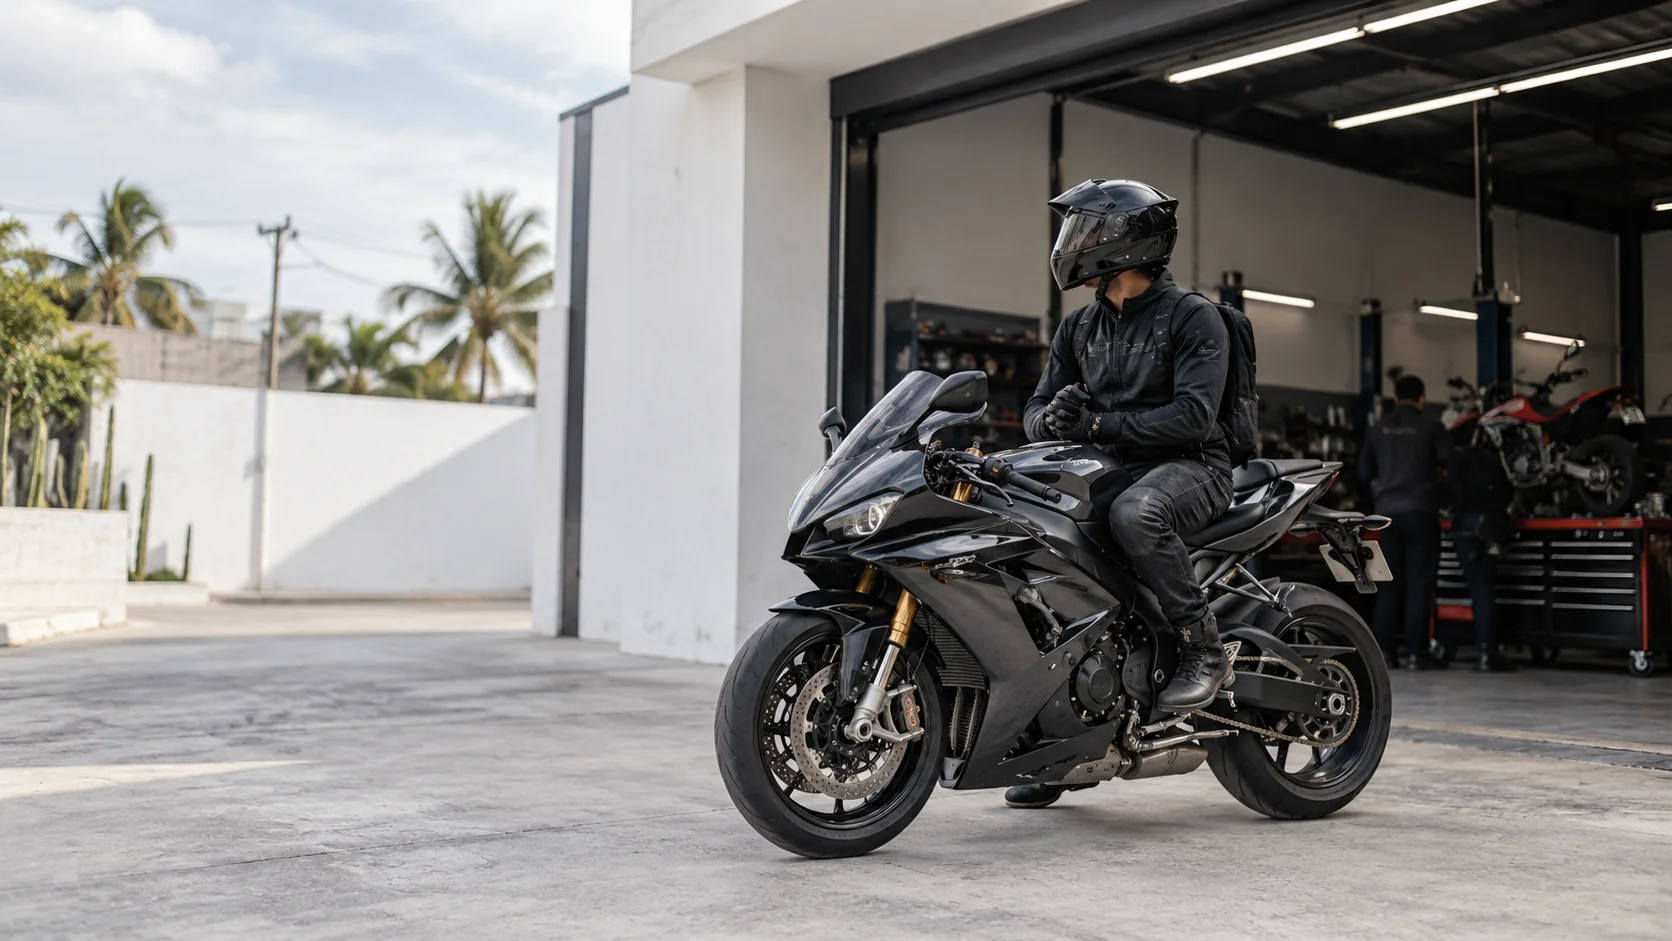
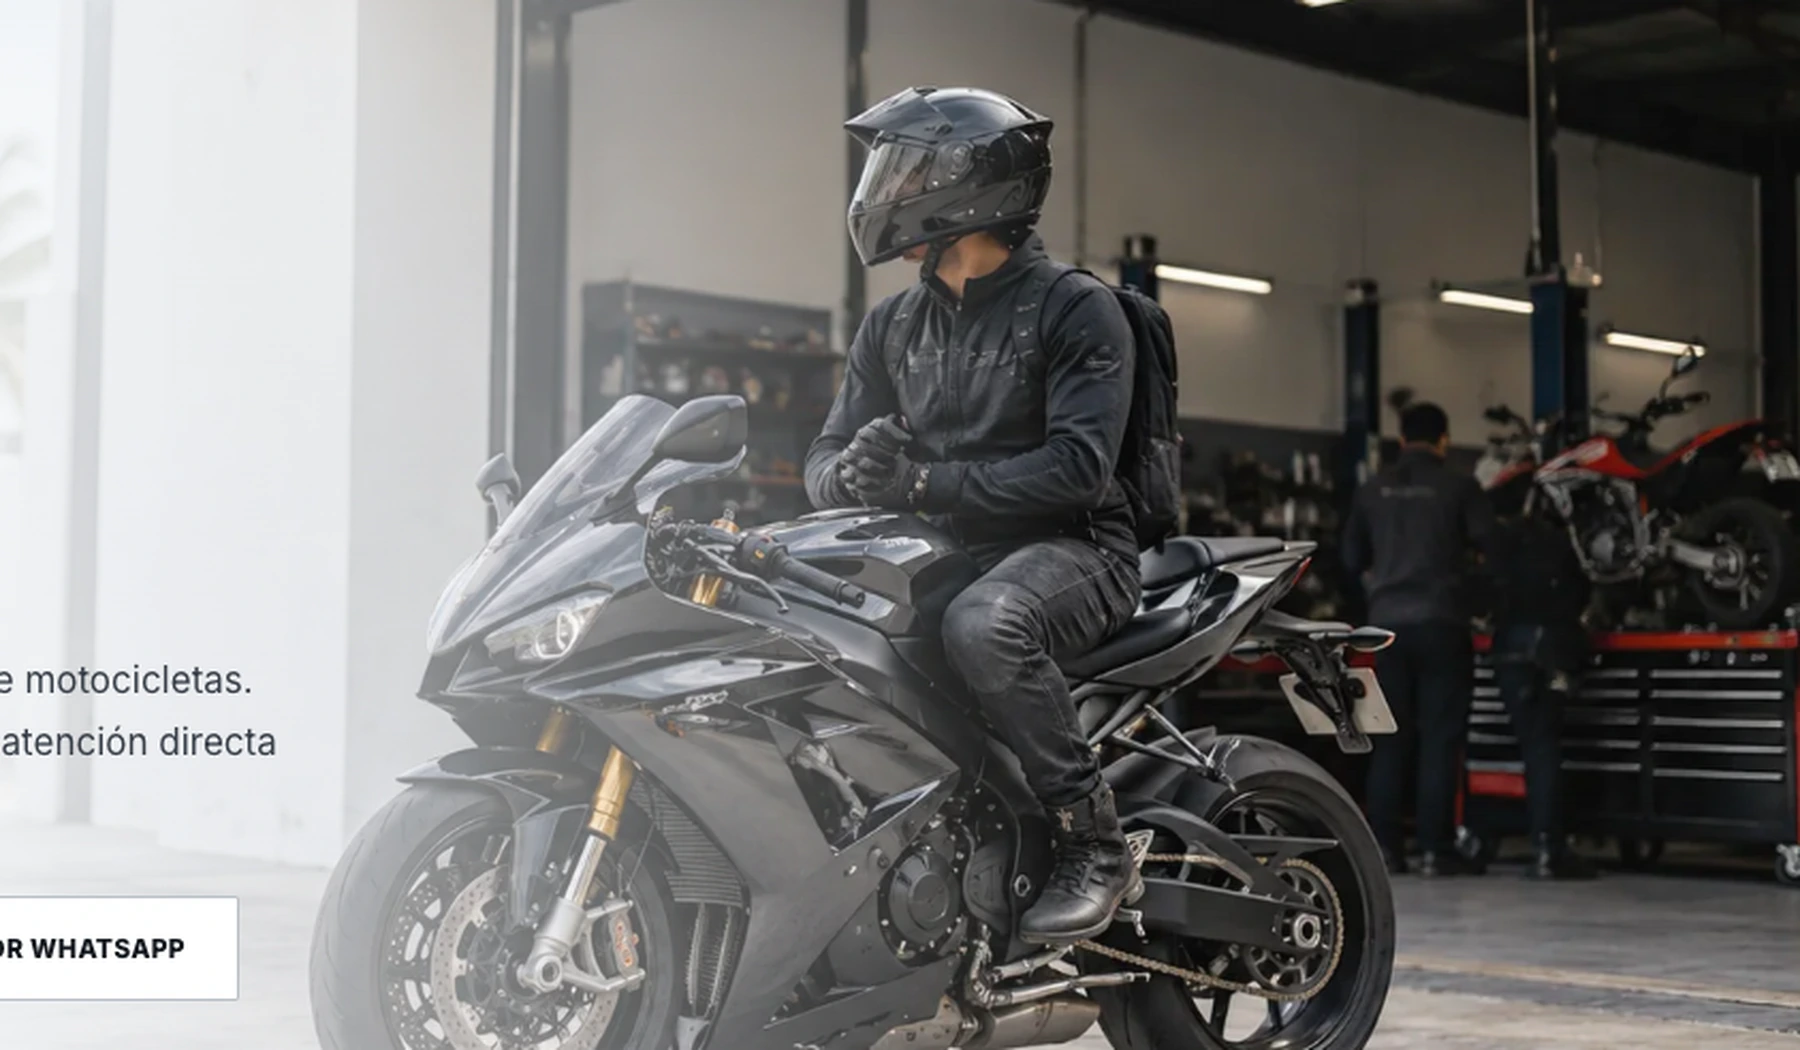
Add files via upload

diff --git a/index.html b/index.html
@@ -18,10 +18,10 @@
 .booking-section{padding:100px 0;background:#fff}.booking-heading{display:flex;align-items:end;justify-content:space-between;gap:40px;margin-bottom:28px}.booking-heading h2{font-size:clamp(43px,5vw,67px);margin:8px 0 0}.booking-heading .intro-copy{max-width:460px;color:#67717a;font-size:15px;line-height:1.75;margin:0}.booking-shell{border:1px solid #dfe3e6;background:#fff;box-shadow:0 14px 35px #00000008}.booking-tabs{display:grid;grid-template-columns:repeat(3,1fr);border-bottom:1px solid var(--line);background:#f6f7f8}.booking-tab{min-height:75px;padding:18px 12px;display:flex;align-items:center;justify-content:center;gap:11px;border:0;border-right:1px solid var(--line);border-bottom:3px solid transparent;background:transparent;color:#59616b;font-weight:800;font-size:13px}.booking-tab:last-child{border-right:0}.booking-tab:hover{background:#ecedef}.booking-tab.is-selected{background:#fff;color:#121519;border-bottom-color:var(--red)}.tab-num{font:800 13px 'Barlow Condensed',sans-serif;color:var(--red)}.booking-panel{padding:46px clamp(25px,5vw,63px) 50px}.booking-panel[hidden]{display:none}.panel-intro{margin:0 0 30px}.panel-intro .eyebrow{display:block}.panel-intro h3{font:800 clamp(34px,3.5vw,48px) 'Barlow Condensed',sans-serif;text-transform:uppercase;margin:7px 0 8px}.panel-intro>p:last-child{color:#68747d;font-size:14px;line-height:1.8;margin:0;max-width:740px}.booking-form{max-width:940px}.form-grid{display:grid;grid-template-columns:repeat(2,minmax(0,1fr));gap:22px 24px}.field{display:flex;flex-direction:column;gap:9px;font-size:12px;font-weight:700;color:#333a42}.field-full{grid-column:1/-1}.field>span:not(.optional){color:var(--red)}.optional{color:#8b939b;font-weight:400;font-size:11px}.field input,.field select,.field textarea{width:100%;min-height:51px;padding:13px 15px;border:1px solid #d5dbe0;background:white;border-radius:2px;color:#232b32;outline:none;box-shadow:none;appearance:auto}.field textarea{min-height:110px;resize:vertical}.field input::placeholder,.field textarea::placeholder{color:#959ca3}.field input:focus,.field select:focus,.field textarea:focus{border-color:#cc4547;outline:2px solid #ffd1d1;outline-offset:0}.check-line{display:flex;align-items:flex-start;gap:10px;margin-top:22px;font-size:12px;color:#57616a;line-height:1.75}.check-line input{width:17px;height:17px;margin-top:2px;accent-color:var(--red);flex:none}.check-line strong{color:#20262c}.form-submit{margin-top:25px;border:0;background:var(--red);color:white;padding:16px 27px;font-size:12px;font-weight:800;display:inline-flex;align-items:center;gap:13px;border-radius:2px}.form-submit:hover{background:var(--red-dark)}.form-note{font-size:11px;color:#89929b;max-width:650px;margin:13px 0 0}.booking-bottom{padding:17px 0;display:flex;justify-content:space-between;gap:15px;color:#71808a;font-size:10px;letter-spacing:.09em;font-weight:700;text-transform:uppercase}.loyalty-teaser{margin:25px 0 0;padding:20px 24px;border-left:3px solid var(--red);background:#f5f6f7;display:flex;gap:16px;align-items:flex-start}.loyalty-mark{color:var(--red);font-size:30px}.loyalty-teaser strong{font-size:12px}.loyalty-teaser p{font-size:12px;color:#616a74;line-height:1.8;margin:4px 0 0}
 /* locations/contact/reviews */
 .location{background:#f5f6f7;padding:100px 0}.location-layout{display:grid;grid-template-columns:1fr 1fr;gap:75px;align-items:center}.location h2{font-size:clamp(46px,5vw,69px)}.contact-facts{margin:30px 0;display:grid;gap:17px}.contact-facts dt{font-size:11px;font-weight:800;letter-spacing:.1em;text-transform:uppercase;color:#979fa7}.contact-facts dd{margin:3px 0 0;font-size:14px;font-weight:650}.contact-facts a:hover{color:var(--red)}.location-art{position:relative;background:#dce0e3;min-height:450px;overflow:hidden}.location-art img{position:absolute;inset:0;width:100%;height:100%;object-fit:cover;object-position:66% center}.location-card{position:absolute;left:24px;right:24px;bottom:22px;padding:23px;background:#fff;box-shadow:0 10px 35px #0002;display:flex;align-items:center;justify-content:space-between;gap:18px}.location-card strong{font:800 21px 'Barlow Condensed',sans-serif;text-transform:uppercase}.location-card small{display:block;color:#747d87;font-size:11px;line-height:1.6}.location-card a{white-space:nowrap;color:var(--red);font-size:12px;font-weight:800}.contacts-buttons{display:flex;flex-wrap:wrap;gap:10px}
-.reviews{background:#fff;padding:92px 0 102px}.reviews-top{display:flex;align-items:end;justify-content:space-between;gap:30px}.reviews-top p{max-width:580px;color:#67717a}.review-card{background:#f3f5f6;padding:34px 38px;margin-top:34px;display:grid;grid-template-columns:1fr auto;align-items:center;gap:25px}.review-card p{font-size:16px;line-height:1.75;color:#4b545e;margin:8px 0 0}.review-mark{font-family:'Barlow Condensed',sans-serif;font-size:54px;font-weight:800;color:#171c22;letter-spacing:-.03em}.review-source{display:inline-flex;gap:8px;align-items:center;font-size:11px;font-weight:800;color:#777f88;letter-spacing:.1em;text-transform:uppercase}.review-source span{font:800 18px Inter,sans-serif;color:#4285f4}.review-button{margin-top:27px}.reviews-note{font-size:11px;color:#87919b;margin-top:16px}.editor-note{font-size:10px;color:#98a1a9;text-align:center;padding:9px 30px 21px;line-height:1.6}
+.reviews{background:#fff;padding:92px 0 102px}.reviews-top{display:flex;align-items:end;justify-content:space-between;gap:30px}.reviews-top p{max-width:580px;color:#67717a}.review-grid{display:grid;grid-template-columns:repeat(3,minmax(0,1fr));gap:20px;margin-top:34px}.review-item{background:#f3f5f6;border:1px solid #e3e6e9;padding:28px 26px;display:flex;flex-direction:column;gap:14px;min-height:220px}.review-meta{display:flex;justify-content:space-between;align-items:center;gap:12px}.review-name{font:800 18px 'Barlow Condensed',sans-serif;letter-spacing:.02em;text-transform:uppercase;color:#171c22}.review-stars{color:#f5a623;font-size:15px;letter-spacing:.08em}.review-item p{font-size:14px;line-height:1.8;color:#4b545e;margin:0}.review-button{margin-top:27px}.reviews-note{font-size:11px;color:#87919b;margin-top:16px}.editor-note{font-size:10px;color:#98a1a9;text-align:center;padding:9px 30px 21px;line-height:1.6}
 .footer{background:#171a1f;color:#d2d6da;padding:47px 0 25px}.footer-grid{display:grid;grid-template-columns:1.2fr 1fr 1fr;gap:50px;padding-bottom:39px}.footer h3{color:white;font:800 24px 'Barlow Condensed',sans-serif;text-transform:uppercase;letter-spacing:.02em}.footer p,.footer a{font-size:12px;line-height:1.85;color:#afb6bd}.footer a:hover{color:#fff}.footer-links{display:grid;gap:7px}.footer-bottom{display:flex;justify-content:space-between;gap:20px;border-top:1px solid #373d43;padding-top:22px;color:#98a0a7;font-size:10px}.footer-brand{font:800 33px 'Barlow Condensed',sans-serif;color:#fff}.footer-brand span{color:var(--red)}.footer-note{margin-top:10px}
 .floating-wa{position:fixed;right:22px;bottom:20px;z-index:45;background:#1ca767;color:white;width:50px;height:50px;display:grid;place-items:center;border-radius:50%;box-shadow:0 5px 20px #0003}.floating-wa svg{width:25px;height:25px}
-@media(max-width:1020px){.nav-links{gap:14px}.hero-image{background-position:62% center}.feature-layout,.location-layout{gap:33px}.container{padding:0 25px}}
+@media(max-width:1020px){.review-grid{grid-template-columns:1fr;} .nav-links{gap:14px}.hero-image{background-position:62% center}.feature-layout,.location-layout{gap:33px}.container{padding:0 25px}}
 @media(max-width:760px){.container{padding:0 20px}.info-bar-inner{padding:8px 20px}.info-bar-inner span:last-child{display:none}.site-header .nav-wrap{height:70px}.brand-mark{width:43px;height:43px}.brand-word strong{font-size:22px}.nav-links{display:none}.nav-btn{margin-left:auto;font-size:10px;padding:12px 13px}.menu-toggle{display:flex;align-items:center;justify-content:center;border:0;background:transparent;color:#20262c;width:38px;height:42px;padding:0}.menu-toggle span{font-size:24px;line-height:1}.mobile-menu:not([hidden]){display:flex;flex-direction:column;position:absolute;top:70px;left:0;right:0;background:white;box-shadow:0 15px 26px #0002;padding:10px 20px 20px;gap:0}.mobile-menu a{padding:12px 0;border-bottom:1px solid var(--line);font-weight:700;font-size:13px}.hero{min-height:660px;align-items:end}.hero-image{background-position:66% 5%;background-size:auto 68%;background-color:#eef0f0}.hero-image:after{background:linear-gradient(0deg,#f3f5f6 0%,#f3f5f6 23%,#f3f5f6e8 41%,#f3f5f600 77%)}.hero-body{padding-top:320px;padding-bottom:35px}.hero h1{font-size:clamp(53px,12vw,78px);margin:13px 0 16px}.hero p.intro{font-size:14px;max-width:450px;margin:0 0 22px}.hero-trust{font-size:10px;flex-wrap:wrap;gap:12px;margin-top:19px}.hero-trust span+span{padding-left:12px}.section{padding:70px 0}h2{font-size:clamp(43px,11vw,59px)}.brands-list{justify-content:center;gap:15px 25px}.maker{font-size:24px}.service-grid{grid-template-columns:repeat(2,minmax(0,1fr));gap:12px}.service-card{min-height:224px;padding:21px}.feature-band{padding:62px 0}.feature-layout,.location-layout{grid-template-columns:1fr;gap:34px}.feature-image{aspect-ratio:1.35}.booking-section{padding:70px 0}.booking-heading{display:block}.booking-heading .intro-copy{margin:15px 0 0}.booking-tabs{grid-template-columns:repeat(3,minmax(0,1fr))}.booking-tab{flex-direction:column;gap:3px;font-size:10px;padding:12px 5px;min-height:67px;line-height:1.2;text-align:center}.booking-panel{padding:27px 18px 33px}.form-grid{grid-template-columns:1fr;gap:17px}.field-full{grid-column:auto}.field input,.field select,.field textarea{font-size:16px}.form-submit{width:100%;justify-content:center}.location{padding:65px 0}.location-art{min-height:330px}.reviews{padding:68px 0}.reviews-top{display:block}.review-card{grid-template-columns:1fr;padding:24px;gap:10px}.review-mark{font-size:38px}.footer-grid{grid-template-columns:1fr 1fr;gap:25px}.footer-grid>div:first-child{grid-column:1/-1}.footer-bottom{flex-direction:column;gap:5px}.floating-wa{right:12px;bottom:13px;width:45px;height:45px}}
 @media(max-width:460px){.info-bar-inner{font-size:10px}.brand-word strong{font-size:19px}.brand-word small{font-size:8px}.brand-mark{width:40px;height:40px}.nav-btn{padding:10px 9px;font-size:9px}.hero{min-height:675px}.hero-image{background-size:auto 65%;background-position:61% 0}.hero-body{padding-top:305px}.hero h1{font-size:60px}.hero .btn{width:100%}.hero-actions{gap:9px}.service-grid{grid-template-columns:1fr}.service-card{min-height:188px;padding:21px}.service-card .service-index{font-size:32px;margin-bottom:12px}.booking-heading h2{font-size:48px}.location-card{left:14px;right:14px;bottom:13px;padding:16px}.location-card strong{font-size:18px}.footer-grid{grid-template-columns:1fr;gap:19px}.footer-grid>div:first-child{grid-column:auto}}
 @media(prefers-reduced-motion:reduce){html{scroll-behavior:auto}*,*:after,*:before{transition:none!important;animation:none!important}}
@@ -30,7 +30,7 @@
 <div class="info-bar"><div class="info-bar-inner"><span>Puerto Escondido, Oaxaca <b>·</b> Lunes a sábado, 9:00 a 18:00</span><span>Atención directa: <a href="tel:+529545445822">954 544 5822</a></span></div></div>
 <header class="site-header"><div class="container nav-wrap"><a href="#inicio" class="brand" aria-label="Torre Fuerte, inicio"><img src="assets/emblema-mono.png" class="brand-mark" alt="Emblema de Torre Fuerte"><span class="brand-word"><strong>TORRE FUERTE</strong><small>TALLER DE MOTOCICLETAS</small></span></a><nav class="nav-links" aria-label="Navegación"><a href="#inicio">Inicio</a><a href="#servicios">Servicios</a><a href="#agenda">Agenda</a><a href="#contacto">Contacto</a><a href="#opiniones">Opiniones</a></nav><a class="nav-btn" href="#agenda" data-book="cita">AGENDA TU VISITA →</a><button class="menu-toggle" aria-label="Abrir menú" aria-expanded="false" aria-controls="mobile-menu" type="button"><span>☰</span></button></div><nav id="mobile-menu" class="mobile-menu" aria-label="Menú móvil" hidden><a href="#inicio">Inicio</a><a href="#servicios">Servicios</a><a href="#agenda">Agendar servicio</a><a href="#contacto">Contacto</a><a href="#opiniones">Opiniones de Google</a></nav></header>
 <main id="principal">
-<section class="hero" id="inicio" aria-labelledby="hero-title"><div class="hero-image" role="img" aria-label="Motociclista en moto deportiva frente a un taller mecánico"></div><div class="container hero-body"><span class="eyebrow">TU TALLER DE MOTOS EN PUERTO ESCONDIDO</span><h1 id="hero-title">TU MOTO,<br>EN BUENAS<br>MANOS.</h1><p class="intro">Mantenimiento, revisiones y reparación de motocicletas. Cuéntanos qué necesita tu moto y recibe atención directa del taller.</p><div class="hero-actions"><a class="btn btn-red" href="#agenda" data-book="cita">AGENDA TU SERVICIO <span aria-hidden="true">↗</span></a><a class="btn btn-white" href="https://wa.me/529545445822?text=Hola%2C%20tengo%20una%20duda%20sobre%20mi%20moto." target="_blank" rel="noopener">PREGUNTA POR WHATSAPP</a></div><div class="hero-trust"><span><strong>01.</strong> Atención directa</span><span><strong>02.</strong> Solicita cita en línea</span></div></div></section>
+<section class="hero" id="inicio" aria-labelledby="hero-title"><div class="hero-image" role="img" aria-label="Motociclista en moto deportiva negra frente a un taller mecánico"></div><div class="container hero-body"><span class="eyebrow">TU TALLER DE MOTOS EN PUERTO ESCONDIDO</span><h1 id="hero-title">TU MOTO,<br>EN BUENAS<br>MANOS.</h1><p class="intro">Mantenimiento, revisiones y reparación de motocicletas. Cuéntanos qué necesita tu moto y recibe atención directa del taller.</p><div class="hero-actions"><a class="btn btn-red" href="#agenda" data-book="cita">AGENDA TU SERVICIO <span aria-hidden="true">↗</span></a><a class="btn btn-white" href="https://wa.me/529545445822?text=Hola%2C%20tengo%20una%20duda%20sobre%20mi%20moto." target="_blank" rel="noopener">PREGUNTA POR WHATSAPP</a></div><div class="hero-trust"><span><strong>01.</strong> Atención directa</span><span><strong>02.</strong> Solicita cita en línea</span></div></div></section>
 <section class="brand-strip" aria-label="Marcas de motocicletas"><div class="container"><h2>¿QUÉ MARCA DE MOTO CONDUCES?</h2><div class="brands-list"><span class="maker">HONDA</span><span class="maker">YAMAHA</span><span class="maker">ITALIKA</span><span class="maker">SUZUKI</span><span class="maker">BAJAJ</span><span class="maker">VENTO</span></div><p class="fineprint">Referencias de marcas, sin relación comercial ni afiliación. Consulta compatibilidad y disponibilidad de servicio para tu modelo.</p></div></section>
 <section id="servicios" class="services section"><div class="container"><div class="section-head"><span class="section-kicker">SERVICIOS DE TALLER</span><h2>TODO PARA QUE TU MOTO<br>SIGA RODANDO.</h2><p>Desde mantenimiento preventivo hasta la revisión de fallas mecánicas. Escríbenos para confirmar el servicio que necesita tu moto.</p></div><div class="service-grid"><article class="service-card"><span class="service-index">01</span><h3>Mantenimiento preventivo</h3><p>Revisiones y ajustes para mantener tu moto en condiciones de uso.</p><a href="#agenda" data-book="cita">Solicitar revisión →</a></article>
 <article class="service-card"><span class="service-index">02</span><h3>Cambio de aceite</h3><p>Consulta opciones de cambio de aceite y filtros según tu modelo.</p><a href="#agenda" data-book="cita">Solicitar revisión →</a></article>
@@ -104,7 +104,7 @@
 <div class="booking-bottom"><span>UN MENSAJE DIRECTO, SIN INTERMEDIARIOS.</span><span>Lun – Sáb · 9:00 a 18:00</span></div>
 </div></section>
 <section id="contacto" class="location" aria-labelledby="contact-title"><div class="container location-layout"><div><span class="section-kicker">VISÍTANOS</span><h2 id="contact-title">TE ESPERAMOS EN PUERTO ESCONDIDO.</h2><p class="muted">¿Quieres cotizar una reparación, resolver una duda o saber cómo llegar? Estamos a un mensaje de distancia.</p><dl class="contact-facts"><div><dt>Teléfono y WhatsApp</dt><dd><a href="tel:+529545445822">954 544 5822</a></dd></div><div><dt>Horario</dt><dd>Lunes a sábado, de 9:00 a 18:00</dd></div><div><dt>Zona</dt><dd>Puerto Escondido, Oaxaca <span class="muted">· La Guayabillera, Barra de Colotepec</span></dd></div></dl><div class="contacts-buttons"><a class="btn btn-red" href="https://wa.me/529545445822?text=Hola%2C%20tengo%20una%20consulta%20para%20el%20taller." target="_blank" rel="noopener">ESCRIBIR POR WHATSAPP ↗</a><a class="btn btn-white" href="https://maps.app.goo.gl/jk7q4YBHturbASLq6?g_st=iwb" target="_blank" rel="noopener">CÓMO LLEGAR ↗</a></div><p class="fineprint"><a href="torre-fuerte.vcf" download>Guardar contacto en mi celular ↓</a></p></div><div class="location-art"><img src="assets/moto-deportiva-taller.webp" loading="lazy" alt="Moto deportiva frente a un taller"><div class="location-card"><div><strong>TORRE FUERTE</strong><small>Puerto Escondido, Oaxaca</small></div><a href="https://maps.app.goo.gl/jk7q4YBHturbASLq6?g_st=iwb" target="_blank" rel="noopener">ABRIR MAPA ↗</a></div></div></div></section>
-<section class="reviews" id="opiniones" aria-labelledby="reviews-title"><div class="container"><div class="reviews-top"><div><span class="section-kicker">GOOGLE RESEÑAS</span><h2 id="reviews-title">LA OPINIÓN DE NUESTROS CLIENTES IMPORTA.</h2></div><p>Si ya visitaste Torre Fuerte, puedes compartir tu experiencia en Google. También puedes entrar a la ficha del taller para consultar las opiniones que estén publicadas.</p></div><div class="review-card"><div><span class="review-source"><span aria-hidden="true">G</span> Google Maps</span><p>Reseñas y calificaciones publicadas por clientes en el perfil del taller. Consulta el contenido original directamente en Google.</p></div><span class="review-mark" aria-hidden="true">“ ”</span></div><a class="btn btn-red review-button" href="https://share.google/BNSdS2MYYwZAegxCZ" target="_blank" rel="noopener">CONSULTAR Y ESCRIBIR RESEÑAS EN GOOGLE ↗</a><p class="reviews-note">Cuando tengamos reseñas reales verificadas y permiso para mostrarlas, podremos incorporar aquí sus extractos y autores. No se muestran opiniones inventadas.</p></div></section>
+<section class="reviews" id="opiniones" aria-labelledby="reviews-title"><div class="container"><div class="reviews-top"><div><span class="section-kicker">GOOGLE RESEÑAS</span><h2 id="reviews-title">LO QUE DICEN NUESTROS CLIENTES.</h2></div><p>Atención clara, trato directo y trabajo bien hecho. Aquí puedes ver un ejemplo de cómo se mostrarán las opiniones del taller en la página.</p></div><div class="review-grid"><article class="review-item"><div class="review-meta"><span class="review-name">Carlos Méndez</span><span class="review-stars" aria-label="5 de 5 estrellas">★★★★★</span></div><p>Me explicaron bien qué tenía mi moto y me fueron avisando cada ajuste. El servicio fue rápido y me dio confianza desde el primer contacto.</p></article><article class="review-item"><div class="review-meta"><span class="review-name">Andrea Ruiz</span><span class="review-stars" aria-label="5 de 5 estrellas">★★★★★</span></div><p>Fui por una revisión general y me gustó que no me quisieran vender de más. Quedó bien la moto y la atención por WhatsApp fue súper práctica.</p></article><article class="review-item"><div class="review-meta"><span class="review-name">Javier Morales</span><span class="review-stars" aria-label="5 de 5 estrellas">★★★★★</span></div><p>Buena atención, trato amable y tiempos claros. Se nota cuando alguien le sabe y además te habla derecho sobre lo que conviene hacerle a tu moto.</p></article></div><a class="btn btn-red review-button" href="https://share.google/BNSdS2MYYwZAegxCZ" target="_blank" rel="noopener">CONSULTAR Y ESCRIBIR RESEÑAS EN GOOGLE ↗</a><p class="reviews-note">Muestra visual de la sección de reseñas. Después puedes sustituir estos textos por opiniones reales del perfil de Google.</p></div></section>
 </main><footer class="footer"><div class="container"><div class="footer-grid"><div><div class="footer-brand">TORRE <span>FUERTE</span></div><p class="footer-note">Taller de mantenimiento y reparación de motocicletas en Puerto Escondido, Oaxaca.</p></div><div><h3>NAVEGACIÓN</h3><div class="footer-links"><a href="#servicios">Servicios</a><a href="#agenda">Agenda y registro</a><a href="#contacto">Ubicación y contacto</a><a href="#opiniones">Opiniones</a></div></div><div><h3>HORARIO</h3><p>Lunes a sábado<br>9:00 – 18:00<br><a href="tel:+529545445822">954 544 5822</a></p></div></div><div class="footer-bottom"><span>© <span id="year">2026</span> Torre Fuerte. Puerto Escondido, Oaxaca.</span><a href="#inicio">Volver arriba ↑</a></div></div></footer><div class="editor-note">Fotografías de ambientación generadas para este diseño; no muestran el taller real. Las marcas se incluyen solo como referencia informativa.</div>
 <a class="floating-wa" href="https://wa.me/529545445822?text=Hola%2C%20quisiera%20hacer%20una%20consulta." target="_blank" rel="noopener" aria-label="Abrir WhatsApp del taller"><svg xmlns="http://www.w3.org/2000/svg" viewBox="0 0 24 24" fill="none" stroke="currentColor" stroke-width="1.8" stroke-linecap="round" stroke-linejoin="round" aria-hidden="true"><path d="M20 11.5a8.5 8.5 0 0 1-12.6 7.4L3 20l1.2-4.2A8.5 8.5 0 1 1 20 11.5Z"/><path d="M8.6 8.3c-.3-.6-.6-.6-.9-.6-.4 0-.8.4-.9.7-.6 1.2.8 3.5 2.9 5.1 1.8 1.5 3.4 1.9 4.5 1.7.7-0.1 1.3-0.8 1.4-1.4.1-.5-0.1-.6-.5-.8l-1.4-.7c-.3-.1-.5 0-.7.3l-.6.8c-.2.2-.4.2-.7.1-1.2-.5-2.3-1.5-3-2.5-.2-.3-.2-.5 0-.7l.5-.6c.2-.3.2-.5.1-.7Z"/></svg></a>
 <script>
